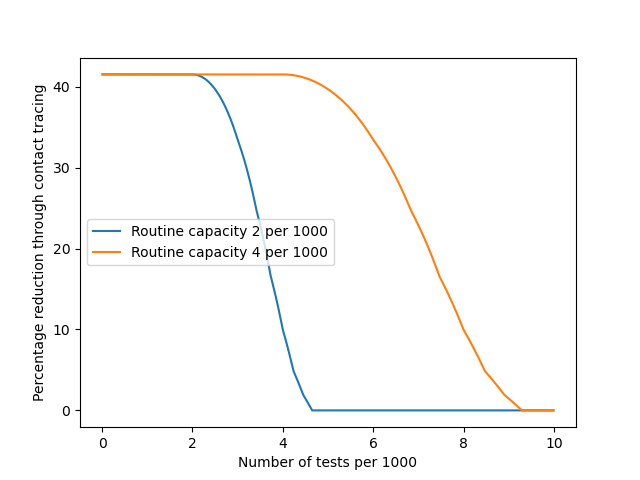
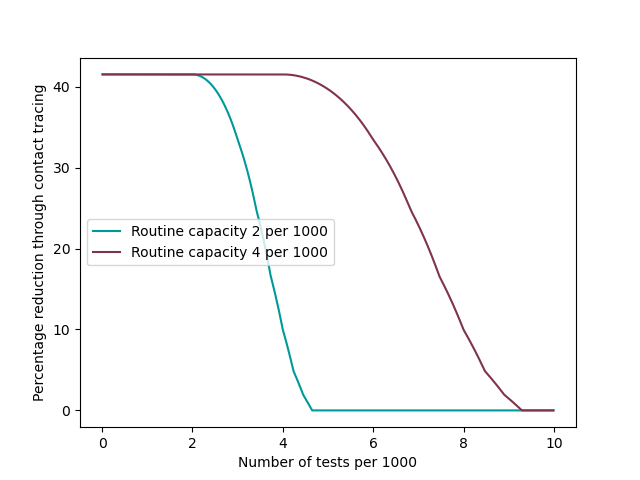
Updated colours

diff --git a/create_figures.py b/create_figures.py
@@ -11,14 +11,16 @@ if __name__ == "__main__":
     tat_figure = False
     kretzschmar_figure = False
     onward_transmission_double_figure = False
-    track_trace_impact_figure = False
+    track_trace_impact_figure = True
     positive_percent_impact_figure = False
     supplement_pos_perc_figures = False
     supplement_figure_non_quadratic = False
 
     supplement_figure_stochastic_tat = False
     supplement_figure_TAT_dist_hist = False
-    supplement_figure_swab_delay = True
+    supplement_figure_swab_delay = False
+
+    figure_vary_routine_capacity = False
 
     base_figure_directory = 'MS_figures'
 
@@ -161,7 +163,8 @@ if __name__ == "__main__":
                                        'pre_prob': test_prob_high}
                           }
         priority_allocation_options = scenario.priority_order
-
+        plot_num = itertools.count()
+        colours = ((0, .6, .6), (.5,.2,.3))
         for priority_value in priority_values:
             for priority_order in priority_allocation_options:
                 for capacity_value in capacity_values:
@@ -203,7 +206,9 @@ if __name__ == "__main__":
                             transmisison_difference = transmission_array_iso-transmission_array
                             percentage_transmission_difference = transmisison_difference/transmission_array_iso
                             # print(min(transmisison_difference))
-                            plt.plot([i/100 for i in test_array], perc_trace)
+
+                            current_plot_num = next(plot_num)
+                            plt.plot([i/100 for i in test_array], perc_trace, color=colours[current_plot_num])
 
                             # axs[axs_current].plot([i/100 for i in test_array], transmission_reduction_iso)
 
@@ -512,7 +517,7 @@ if __name__ == "__main__":
                     axs[c].plot(test_nparray, 100*transmission_array/max(transmission_array), color=color)
                     if c == 0:
                         axs[c].set_ylabel('Percentage of onwards transmission', color=color)
-                    axs[c].set_xlabel('Number of tests per 1000')
+                    axs[c].set_xlabel('Routine testing capacity, per 1000')
 
                     # min_transmission_tests = test_nparray[np.where(transmission_array==min(transmission_array))]
                     # ax1.plot([min_transmission_tests]*2, [80,100],'k--')
@@ -579,8 +584,8 @@ if __name__ == "__main__":
 
 
         plt.figure(figsize=(5, 4), dpi=400)
-        test_optim_1.plot_turn_around_time()
-        test_optim_2.plot_turn_around_time()
+        test_optim_1.plot_turn_around_time(color=[.1,.7,.3])
+        test_optim_2.plot_turn_around_time(color=[.3,.2,.6])
 
         plt.plot([100, 100], [0.3, 7.5], 'r--')
 
@@ -818,5 +823,105 @@ if __name__ == "__main__":
         plt.show()
 
 
+
+
+    if figure_vary_routine_capacity:
+        total_population = scenario.total_population
+
+        # High prevelance
+        onward_transmission_vector_high = \
+            plotting_code.make_onward_transmission_vector(*scenario.onward_transmission_high)
+
+        test_prob_high = scenario.test_prob_high
+
+        population_high, cases_high = \
+            plotting_code.make_population_tuple(num_close=scenario.pop_high[0],
+                                                num_symp=scenario.pop_high[1],
+                                                total_pop=total_population,
+                                                presenting_proporition=1,
+                                                probability_by_indication=test_prob_high)
+
+        print(f'Daily infections = {cases_high}')
+
+        # Low prevelance
+        onward_transmission_vector_low = \
+            plotting_code.make_onward_transmission_vector(*scenario.onward_transmission_low)
+
+        test_prob_low = scenario.test_prob_low
+
+        population_low, cases_low = \
+            plotting_code.make_population_tuple(num_close=scenario.pop_low[0],
+                                                num_symp=scenario.pop_low[1],
+                                                total_pop=total_population,
+                                                presenting_proporition=1,
+                                                probability_by_indication=test_prob_low)
+
+        print(f'Daily infections = {cases_low}')
+
+        # priority_values = [True, False]
+        priority_values = [False]
+        capacity_values = [scenario.test_capacity_high]
+        # symp_prop_values = [.5, 1]
+        symp_prop_values = [.5]
+        scenario_names = ['Low_prev', 'High_prev']
+        situation_dict = {'Low_prev': {'onward': onward_transmission_vector_low,
+                                       'pop': population_low,
+                                       'pre_prob': test_prob_low},
+                          'High_prev': {'onward': onward_transmission_vector_high,
+                                       'pop': population_high,
+                                       'pre_prob': test_prob_high}
+                          }
+        swab_delay = 1
+        priority_allocation_options = scenario.priority_order
+        capacity_value_range = list(range(10,501,10))
+
+        fig, axs = plt.subplots(1, len(scenario_names), figsize=(8,4))
+        axs_count = itertools.count()
+        for priority_value in priority_values:
+            for priority_order in priority_allocation_options:
+                for capacity_value in capacity_values:
+                    for symp_prop_value in symp_prop_values:
+
+                        for scenario_name in scenario_names:
+                            c_dict = situation_dict[scenario_name]
+
+                            min_transmission_list = []
+                            for capacity_value in capacity_value_range:
+                                print(capacity_value)
+
+                                test_optim = TestOptimisation(priority_queue=priority_value,
+                                                              onward_transmission=c_dict['onward'],
+                                                              population=c_dict['pop'],
+                                                              pre_test_probability=c_dict['pre_prob'],
+                                                              routine_capacity=capacity_value,
+                                                              symptomatic_testing_proportion=symp_prop_value,
+                                                              test_prioritsation_by_indication=priority_order,
+                                                              swab_delay=swab_delay)
+                                if capacity_value < 100:
+                                    test_array, transmission_array, positive_array = \
+                                        test_optim.generate_onward_transmission_with_tests(max_tests_proportion=2)
+                                    min_transmission_list.append(min(transmission_array))
+                                else:
+                                    test_array, transmission_array, positive_array = \
+                                        test_optim.generate_onward_transmission_with_tests(max_tests_proportion=1.5)
+                                    min_transmission_list.append(min(transmission_array))
+
+
+                            axs_current = next(axs_count)
+                            min_transmission_array = np.array(min_transmission_list)
+                            axs[axs_current].plot([i/100 for i in capacity_value_range], 100*min_transmission_array/max(min_transmission_array))
+
+                            axs[axs_current].set(xlabel='Testing capacity, per 1000')
+                            if axs_current == 0:
+                                axs[axs_current].set(ylabel='Percentage of onward transmission')
+                            # axs[axs_current].legend(['Outbreak response', 'Community transmission'])
+                            # axs[axs_current].set
+                            # axs[axs_current].plot([capacity_value/100]*2, [70, 100],'--r')
+                            ['Low_prev', 'High_prev']
+                            title_text = 'Outbreak suppression' if scenario_name == 'Low_prev' else 'Community transmission'
+                            axs[axs_current].title.set_text(title_text)
+
+        plt.savefig(f'{base_figure_directory}/Routine_capacity_vary.png')
+        plt.show()
 
     pass

diff --git a/SimpleModelsModule.py b/SimpleModelsModule.py
@@ -81,12 +81,15 @@ class TestOptimisation:
         if self.tat_function == 'exponential':
             return self.function_turn_around_time_exp(priority_queue)(tests)
 
-    def plot_turn_around_time(self, title=None):
+    def plot_turn_around_time(self, title=None, color=None):
         tests = np.arange(self.routine_capacity * 2)
         tat = []
         for test in tests:
             tat.append(self.turn_around_time(test, False))
-        plt.plot(tests, tat)
+        if color is None:
+            plt.plot(tests, tat)
+        else:
+            plt.plot(tests, tat, color=color)
         plt.xlabel('Number of tests')
         plt.ylabel('Average turn around time')
         plt.title(title)
